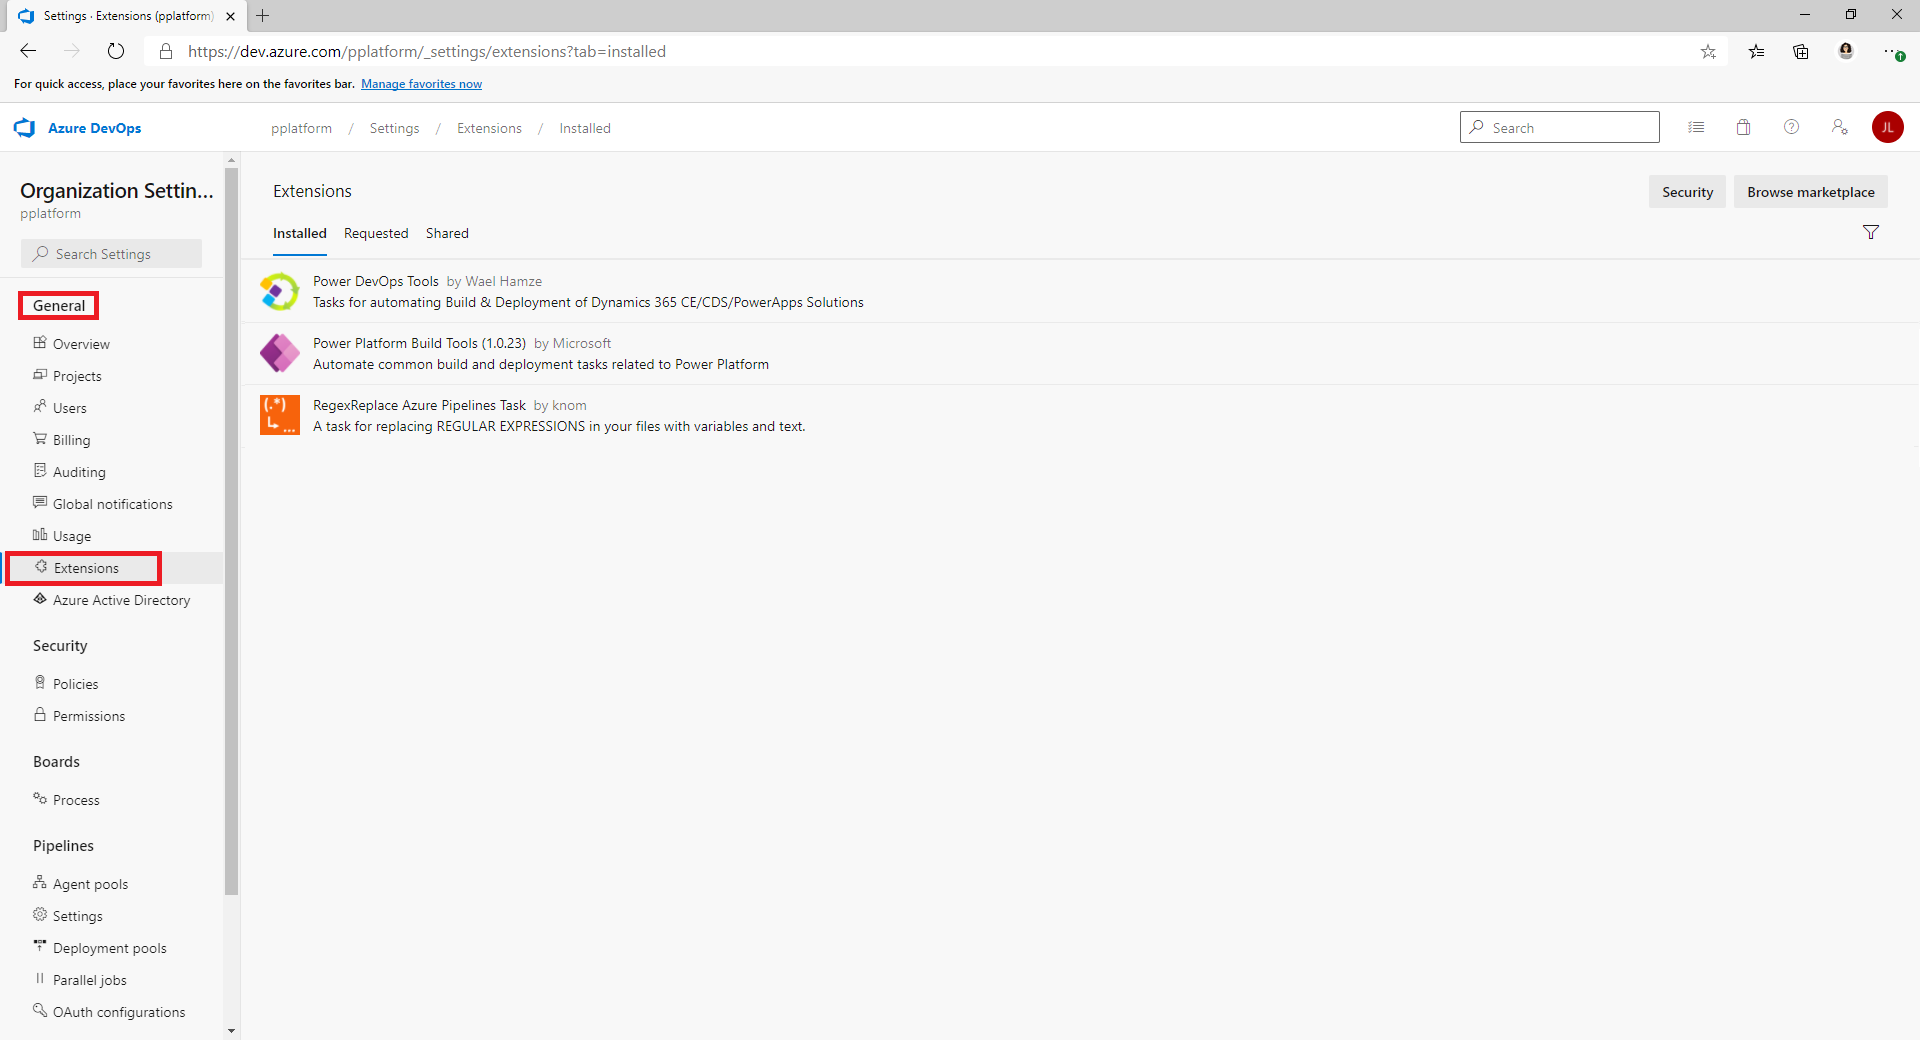
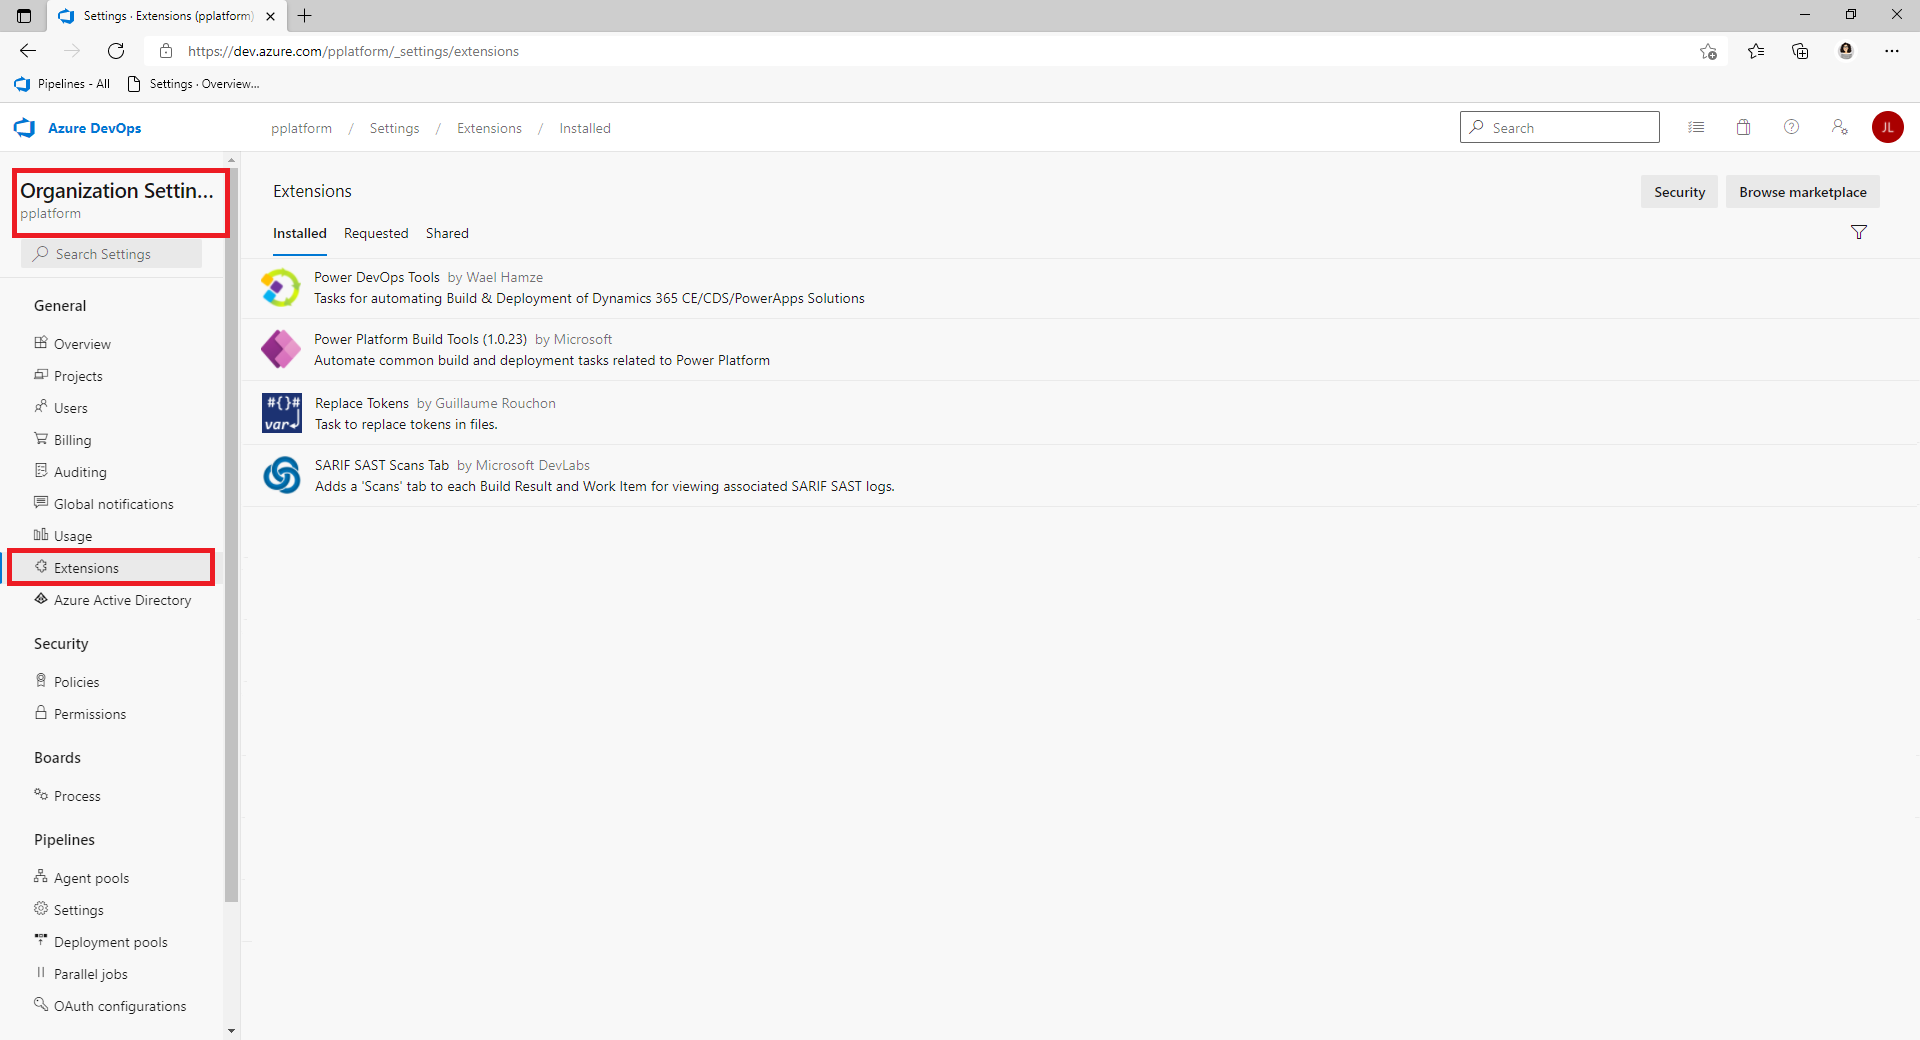
Fixes #636 and Fixes #589

diff --git a/ALMAcceleratorForAdvancedMakers/SETUPGUIDE.md b/ALMAcceleratorForAdvancedMakers/SETUPGUIDE.md
@@ -32,7 +32,7 @@ The GETTINGSTARTED.md is structured into 7 main sections
   - [Foundational Setup](#foundational-setup)
     - [Create an App Registration in your AAD Environment](#create-an-app-registration-in-your-aad-environment)
     - [Give Power App Management Permission to your App](#give-power-app-management-permission-to-your-app)
-    - [Install Azure DevOps Extensions.](#install-azure-devops-extensions)
+    - [Install Azure DevOps Extensions](#install-azure-devops-extensions)
     - [Clone the YAML Pipelines from GitHub to your Azure DevOps instance](#clone-the-YAML-pipelines-from-github-to-your-azure-devops-instance)
     - [Create Pipelines for Import, Delete and Export of Solutions](#create-pipelines-for-import-delete-and-export-of-solutions)
     - [Get the Pipeline ID for the Export Solution Pipeline to use for global variables](#get-the-pipeline-id-for-the-export-solution-pipeline-to-use-for-global-variables)
@@ -152,7 +152,7 @@ Install-Module -Name Microsoft.PowerApps.PowerShell -AllowClobber
 New-PowerAppManagementApp -ApplicationId [the Application (client) ID you copied when creating your app registration]
 ```
 
-### Install Azure DevOps Extensions.
+### Install Azure DevOps Extensions
 
 The ALM Accelerator uses several Azure DevOps extensions, including some third-party Extensions that are available in the Azure DevOps marketplace. Under Organization Settings in Azure DevOps install the following extensions. For more information regarding Microsoft and third-party Azure DevOps extensions see here https://docs.microsoft.com/en-us/azure/devops/marketplace/trust?view=azure-devops. In addition, each of the thrid-party extensions web pages and the link to their source code are provided below.
 
@@ -164,7 +164,7 @@ The ALM Accelerator uses several Azure DevOps extensions, including some third-p
 
    - **Power DevOps Tools**: This extension contains several build tasks not currently supported by the first party build tools. (https://marketplace.visualstudio.com/items?itemName=WaelHamze.xrm-ci-framework-build-tasks | https://github.com/WaelHamze/dyn365-ce-vsts-tasks)
 
-   - **RegexReplace Azure Pipelines Task**: This extension is used by the pipelines to replace strings in files by matching them against a regular expression. (https://marketplace.visualstudio.com/items?itemName=knom.regexreplace-task | https://github.com/knom/vsts-regex-tasks)
+   - **Replace Tokens**: This extension is used by the pipelines to replace tokens in configuration files in order to be able to store secure values in private variables configured for a pipeline. (https://marketplace.visualstudio.com/items?itemName=qetza.replacetokens | https://github.com/qetza/vsts-replacetokens-task)
 
    - **SARIF SAST Scans Tab (optional)**: This extension can be used to visualize the .**sarif files** that get generated by the **Solution Checker** during a build. ([SARIF SAST Scans Tab - Visual Studio Marketplace](https://marketplace.visualstudio.com/items?itemName=sariftools.scans))
 
@@ -202,12 +202,6 @@ Following the steps below to create the following pipelines based on the YAML in
 ![image.png](.attachments/GETTINGSTARTED/image-c4e3cc16-3abd-453b-a420-9366ef587e8c.png)
 1. Update the pipeline name to **export-solution-to-git**, **import-unmanaged-to-dev-environment** or **delete-unmanaged-solution-and-components** and select **Save**.
 
-### Get the Pipeline ID for the Export Solution Pipeline to use for global variables
-
-For the next step you will need to get the **Pipeline ID** that the build pipelines use to find resources required for the build process.
-
- 1. Open the **export-solution-to-git** pipeline and **copy the pipeline ID** from the address bar (e.g. If the URL for the Pipeline is (https://dev.azure.com/org/project/_build?definitionId=**39**) the **Pipeline ID** for this pipeline would be **39**)
-
 ### Create Pipeline global variables
 
 1. In Azure DevOps Select **Pipelines** > **Library** > **Create a new Variable Group**
@@ -222,8 +216,6 @@ For the next step you will need to get the **Pipeline ID** that the build pipeli
     | ClientId  | [The Application (client) ID you copied when creating the App Registration] |
     | ClientSecret | [The Application (client) Secret you copied when creating the App Registration] NOTE: It's recommeded that you secure this value by clicking the lock next to the value so others can't see your secret. |
     | TenantID  | [The Directory (tenant) ID you copied when creating the App Registration] |
-    | PipelineIdToLoadJsonValuesFrom  | [The pipeline ID for export-solution-to-git copied in the previous step] |
-    | ValidationServiceConnection    | [The url of the validation instance of Dataverse e.g. https://deploy.crm.dynamics.com/] NOTE: This must be **identical** to the Azure DevOps **Validation Environment** **Service Connection** name you specified previously including any trailing forward slash. This environment will be used to run solution checker during the build process. |
 
 ### Update Permissions for the Project Build Service
 
@@ -364,7 +356,7 @@ The following steps show how to create a pipeline from the sample pipeline YAML 
 
    ![image-20210408144634619](.attachments/GETTINGSTARTED/image-20210408144634619.png)
 
-1. Paste the YAML from **deploy-validation-SampleSolution.yml**, **deploy-test-SampleSolution.yml** or **deploy-prod-SampleSolution.yml** into your new Pipeline YAML file.
+1. Paste the YAML from **build-deploy-validation-SampleSolution.yml**, **build-deploy-test-SampleSolution.yml** or **build-deploy-prod-SampleSolution.yml** into your new Pipeline YAML file.
 
    ![image-20210408155252306](.attachments/GETTINGSTARTED/image-20210408155252306.png)
 
